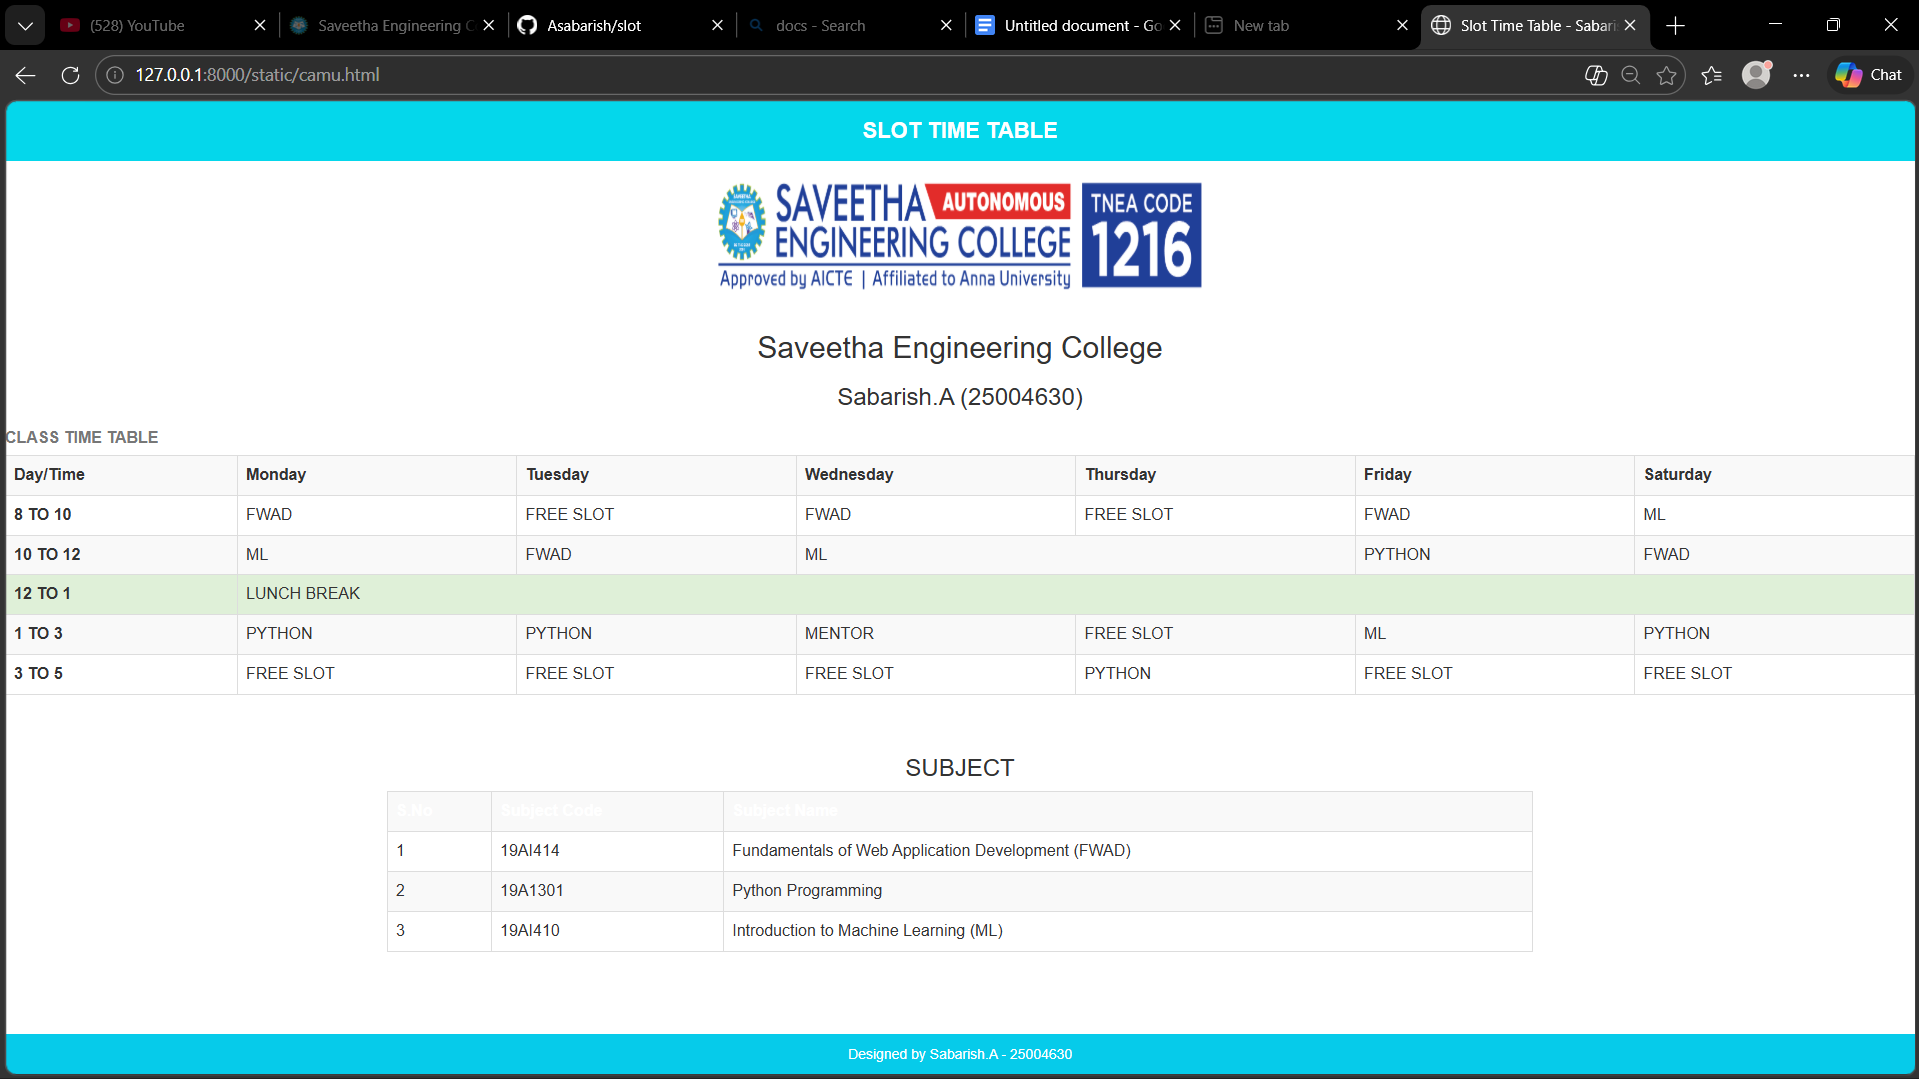
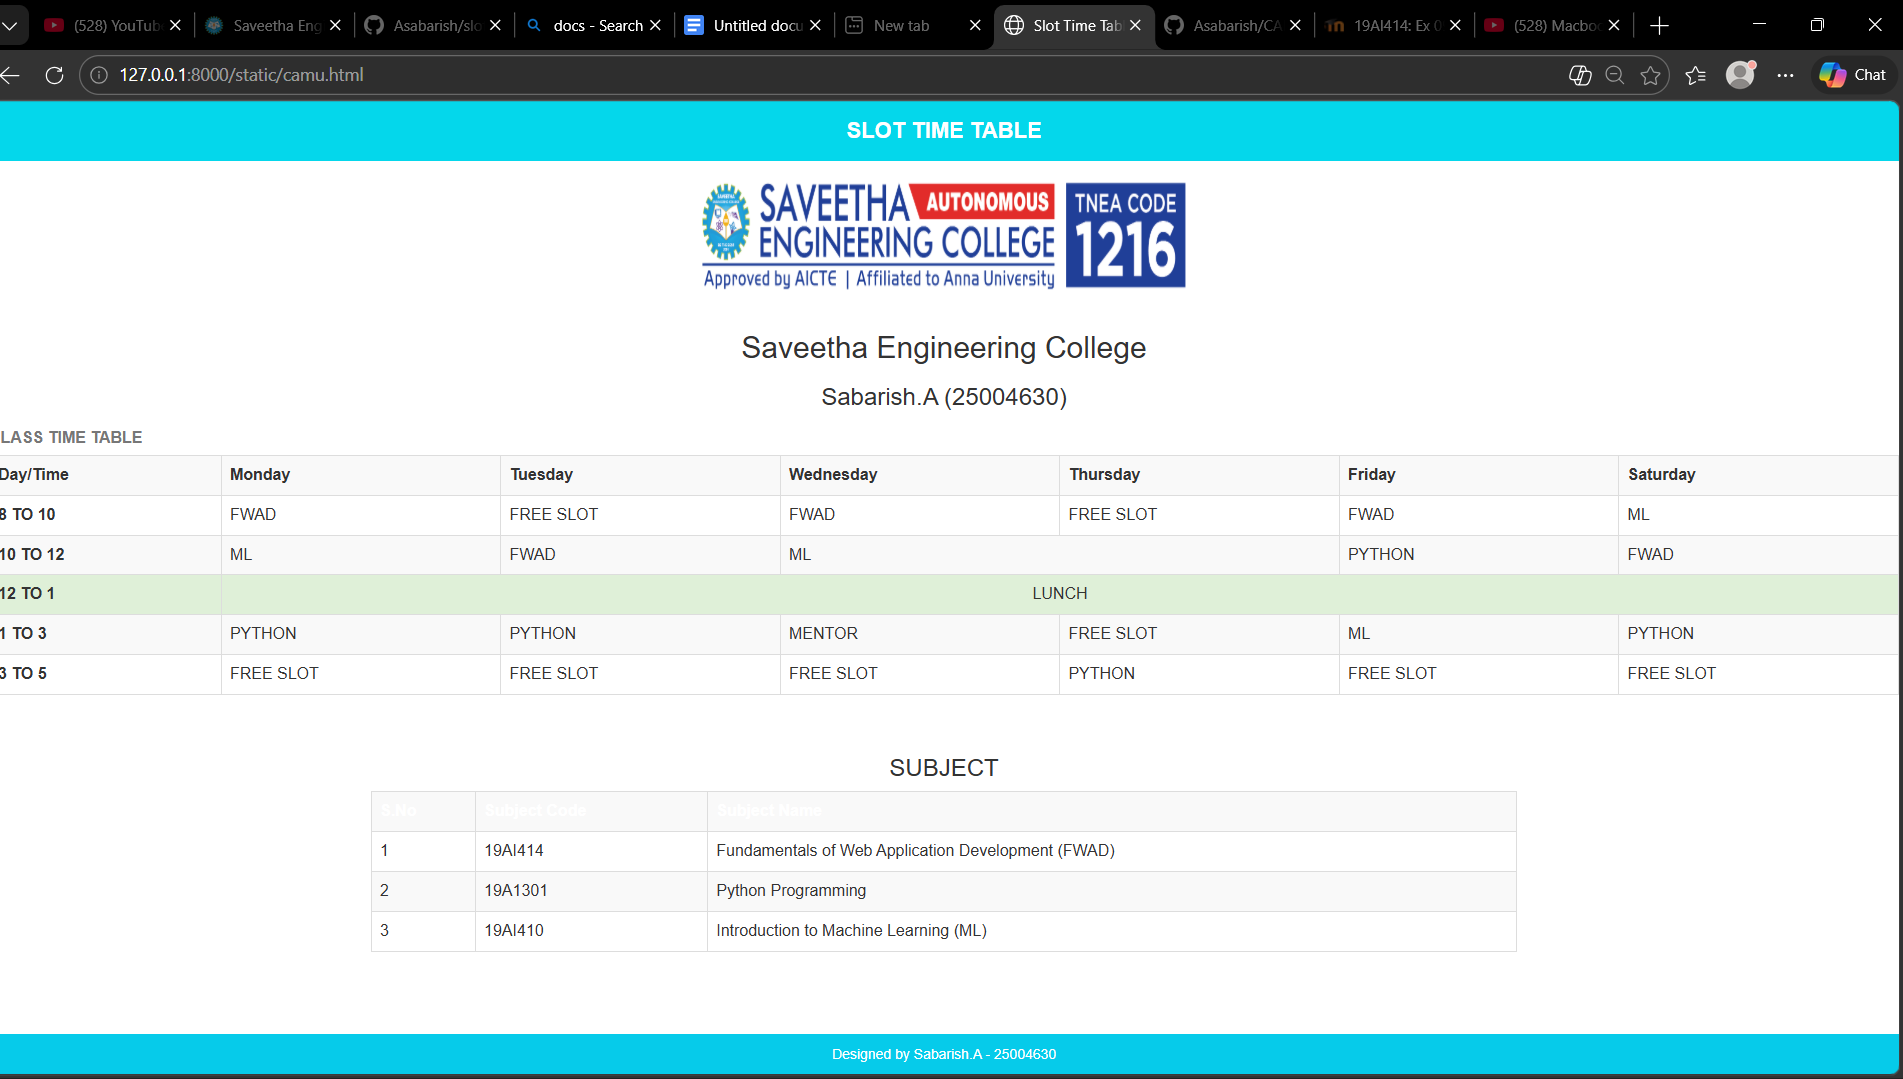
Success

diff --git a/schedule/camuapp/static/camu.html b/schedule/camuapp/static/camu.html
@@ -89,7 +89,7 @@
 
     <tr class="bg-success">
         <th>12 TO 1</th>
-        <td colspan="6">LUNCH BREAK</td> 
+        <td COLSPAN=6 ALIGN="CENTER">LUNCH</td>
     </tr>
 
     <tr>

diff --git a/README.md b/README.md
@@ -125,7 +125,7 @@ camu.html
 
     <tr class="bg-success">
         <th>12 TO 1</th>
-        <td colspan="6">LUNCH BREAK</td> 
+        <td COLSPAN=6 ALIGN="CENTER">LUNCH</td>
     </tr>
 
     <tr>
